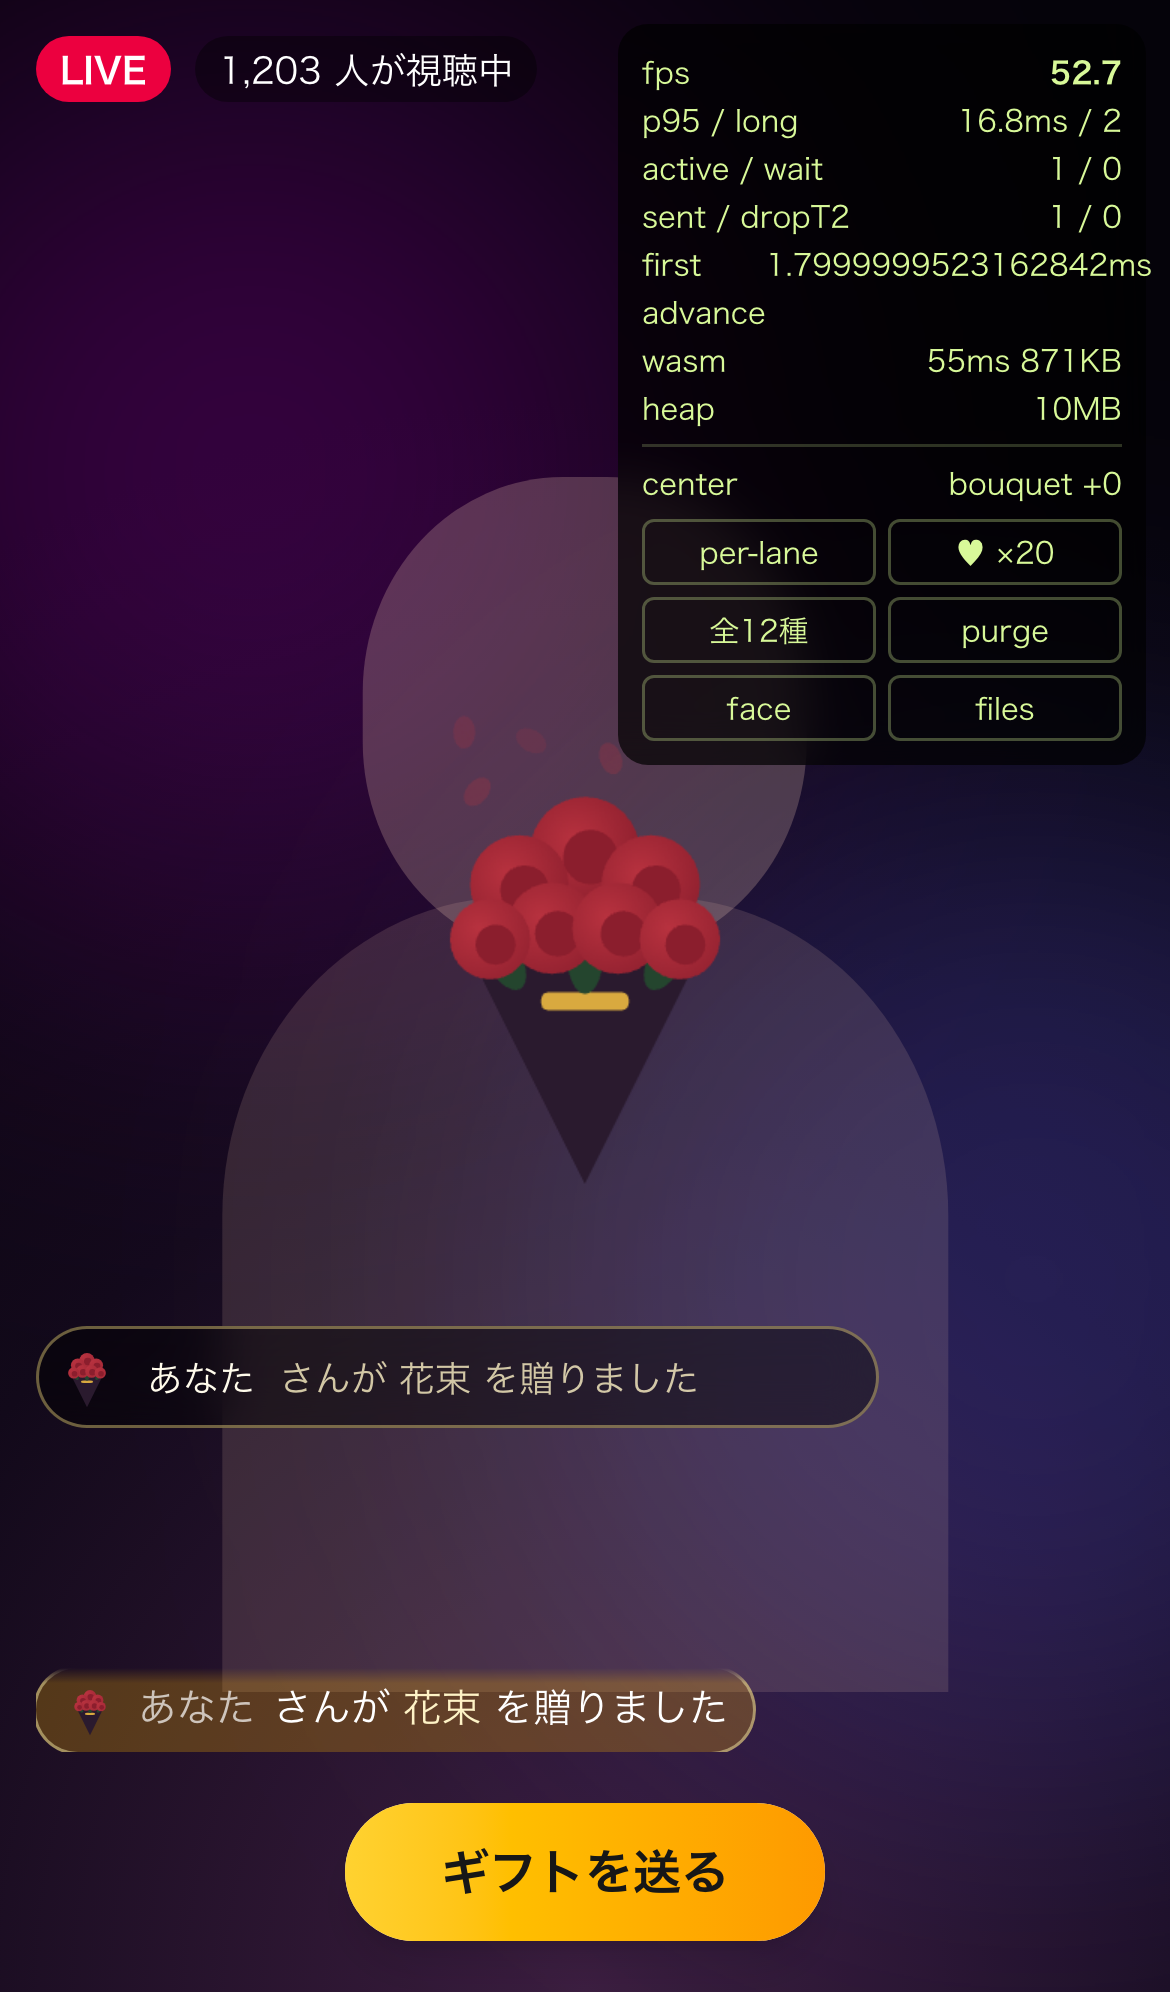
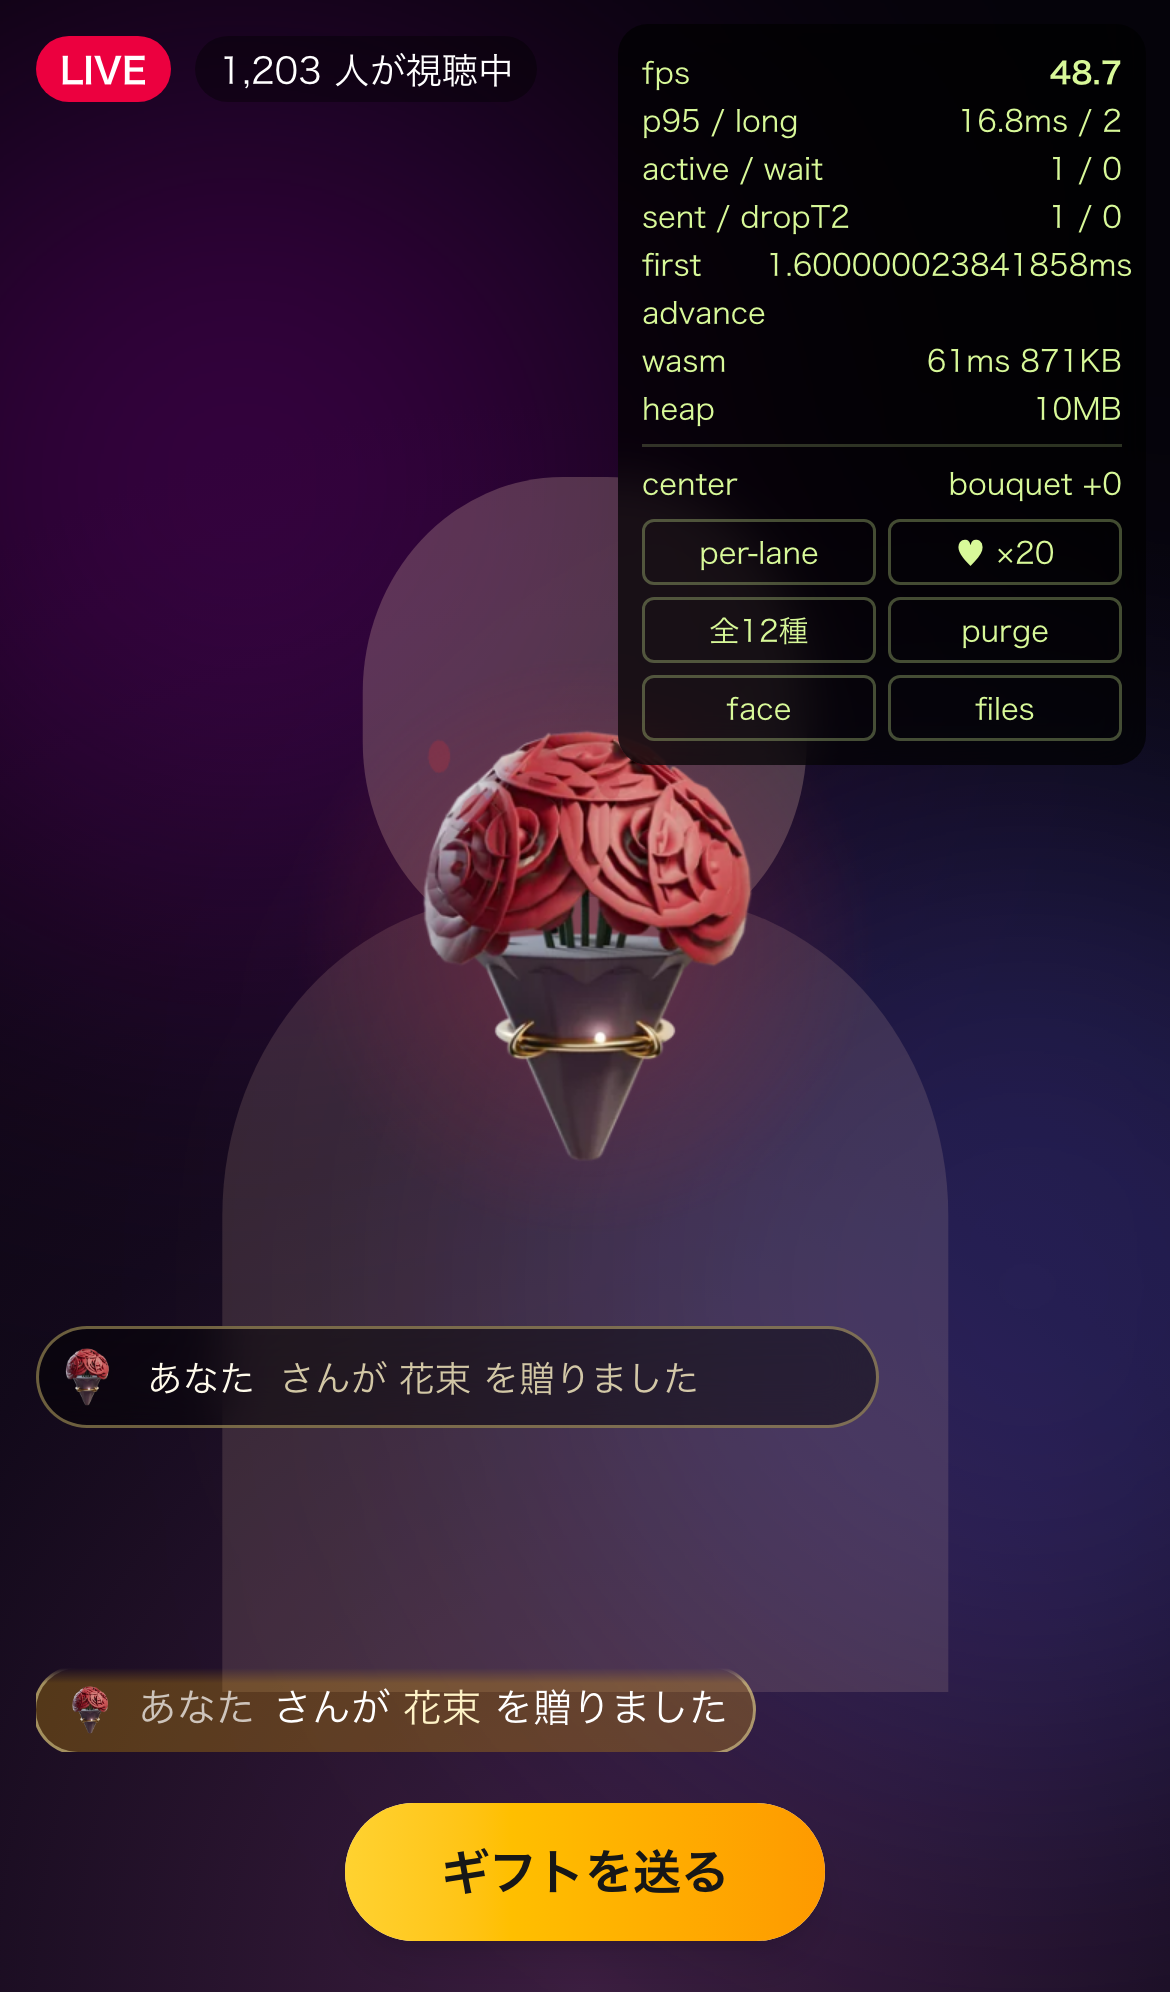
test(e2e): check .riv sizes against tier budgets and refresh reports
The perf spec asserted a flat 30 KB per file from the vector era; with
embedded renders it now uses TIER_FILE_BUDGET_KB. Metrics and
screenshots regenerated with the rendered artwork.

diff --git a/e2e/gift-perf.spec.ts b/e2e/gift-perf.spec.ts
@@ -1,6 +1,7 @@
 import { mkdirSync, writeFileSync } from 'node:fs'
 import { expect, test } from '@playwright/test'
 import { GIFTS } from '../rive/catalog'
+import { TIER_FILE_BUDGET_KB } from '../rive/contract'
 import { activeEffect, metrics, openReady, sendViaSheet } from './helpers'
 
 const REPORT_DIR = 'reports'
@@ -13,11 +14,13 @@ test.describe('performance', () => {
     await openReady(page)
     const loaded = await metrics(page)
 
-    // Every .riv is tiny and parsed quickly; wasm is the dominant cost.
+    // Every .riv stays within its tier's file budget (embedded WebP renders included).
     for (const g of GIFTS.filter(x => x.rivSrc)) {
       const f = loaded.files[g.id]
       expect(f, g.id).toBeDefined()
-      expect(f?.bytes ?? Infinity).toBeLessThan(30 * 1024)
+      expect(f?.bytes ?? Infinity, g.id).toBeLessThanOrEqual(
+        TIER_FILE_BUDGET_KB[g.tier as 2 | 3 | 4 | 5] * 1024,
+      )
     }
     expect(loaded.wasm?.loadMs ?? Infinity).toBeLessThan(10_000)
 

diff --git a/reports/metrics.md b/reports/metrics.md
@@ -1,6 +1,6 @@
 # Gift effect metrics
 
-Generated 2026-09-12T11:53:55.172Z by `bun run e2e` (Playwright, Chromium, iPhone 14 viewport).
+Generated 2026-09-13T02:15:25.405Z by `bun run e2e` (Playwright, Chromium, iPhone 14 viewport).
 
 ## Runtime
 
@@ -8,9 +8,9 @@ Generated 2026-09-12T11:53:55.172Z by `bun run e2e` (Playwright, Chromium, iPhon
 |---|---|
 | wasm url | /rive/rive-2.42.1.wasm |
 | wasm compressed / raw | 871 KB / 2108 KB |
-| wasm fetch + compile | 59 ms |
-| first Rive instance ready | 39 ms |
-| replay latency (trigger → first advance) | 13.3 ms |
+| wasm fetch + compile | 58 ms |
+| first Rive instance ready | 20 ms |
+| replay latency (trigger → first advance) | 12.1 ms |
 
 ## Frame pacing (T2 + T3 + T5 concurrently, 4 s window)
 
@@ -18,19 +18,19 @@ WebGL renderer: `ANGLE (Google, Vulkan 1.3.0 (SwiftShader Device (LLVM 10.0.0) (
 
 | samples | fps avg | p95 frame | long frames (>33 ms) |
 |---|---|---|---|
-| 300 | 34.2 | 83.3 ms | 73 |
+| 300 | 34.7 | 83.3 ms | 70 |
 
 ## Files
 
 | gift | tier | lane | .riv KB | parse ms | first play latency ms |
 |---|---|---|---|---|---|
-| candy | T2 | chatTop | 1.1 | 60 | 1.8 |
-| sparkling | T2 | chatTop | 1.8 | 60 | 4.5 |
-| plush | T2 | chatTop | 0.9 | 60 | - |
-| bouquet | T3 | center | 4.3 | 60 | 15.8 |
-| perfume | T3 | center | 3.0 | 60 | 22.8 |
-| ring | T3 | center | 1.3 | 60 | - |
-| diamond | T4 | full | 2.8 | 60 | 21.7 |
-| suite | T4 | full | 4.9 | 60 | - |
-| palace | T5 | full | 9.6 | 60 | - |
-| myth | T5 | full | 12.1 | 60 | - |
+| candy | T2 | chatTop | 10.3 | 68 | 1.6 |
+| sparkling | T2 | chatTop | 7.6 | 68 | 4.4 |
+| plush | T2 | chatTop | 7.0 | 68 | - |
+| bouquet | T3 | center | 29.8 | 68 | 14.9 |
+| perfume | T3 | center | 14.5 | 68 | 21.4 |
+| ring | T3 | center | 272.6 | 68 | - |
+| diamond | T4 | full | 126.7 | 68 | 19.3 |
+| suite | T4 | full | 30.1 | 69 | - |
+| palace | T5 | full | 22.1 | 68 | - |
+| myth | T5 | full | 48.4 | 68 | - |
